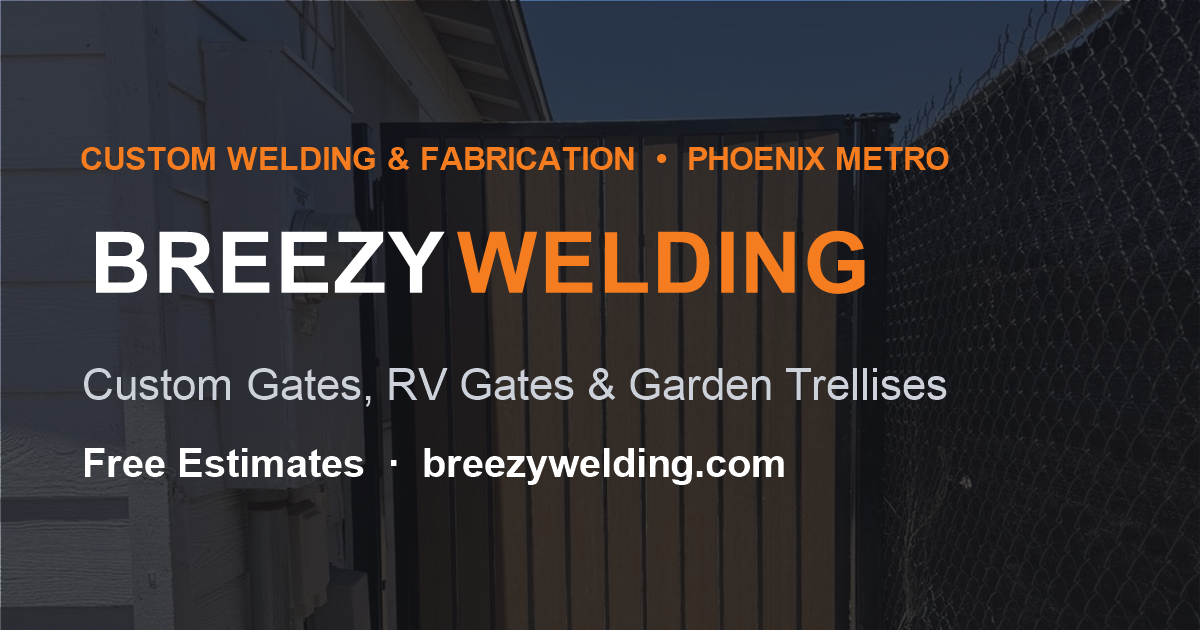
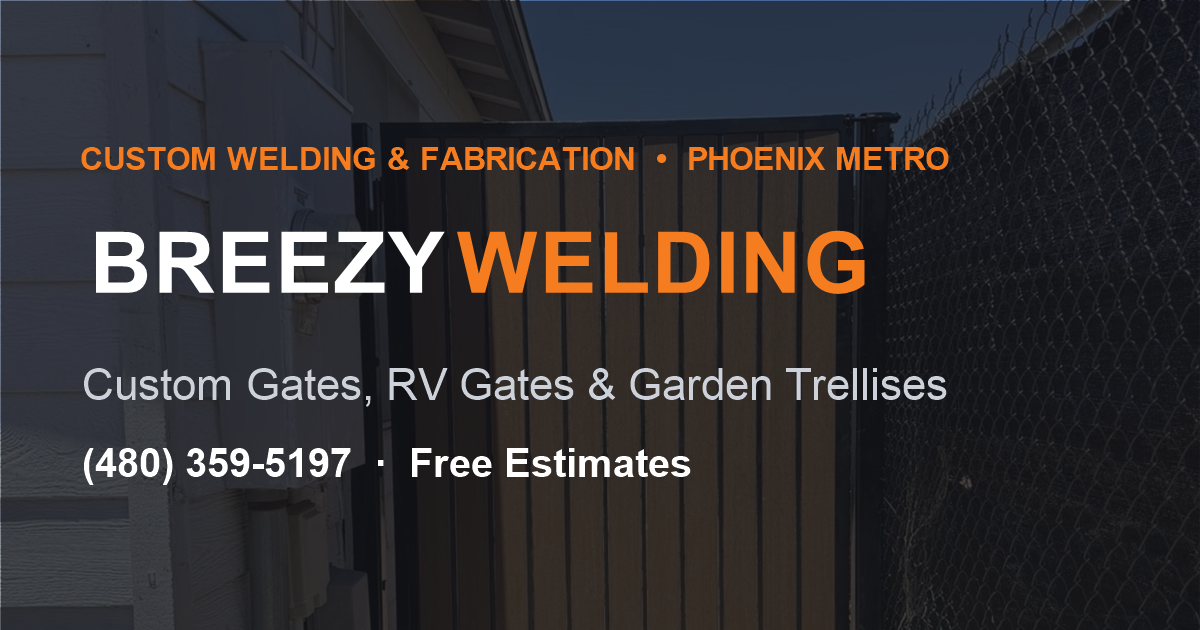
Restore call and text CTAs with new Google Voice business number
(480) 359-5197 replaces the removed personal cell across the nav, hero
CTA, quote-form fallback, footer, mobile call bar, thanks.html, JSON-LD
telephone, and the og.png share image.

Changed region(s): [[0.0617, 0.6937, 0.6783, 0.7841]]

diff --git a/index.html b/index.html
@@ -28,6 +28,7 @@
   "name": "Breezy Welding",
   "description": "Custom welding and fabrication shop building RV gates, entry and walkway gates, and garden trellises in the Phoenix metro.",
   "url": "https://www.breezywelding.com/",
+  "telephone": "+14803595197",
   "email": "breezywelding@gmail.com",
   "image": "https://www.breezywelding.com/og.png",
   "priceRange": "$350-$2400",
@@ -79,6 +80,8 @@
   .btn-lg{padding:16px 34px;font-size:1.1rem}
   .btn-ghost{background:transparent;border:2px solid rgba(255,255,255,.7)}
   .btn-ghost:hover{background:rgba(255,255,255,.12)}
+  .nav-phone{color:var(--white)!important;font-weight:700;font-size:1.05rem!important}
+  .nav-phone svg{vertical-align:-3px;margin-right:6px}
 
   /* ===== Hero ===== */
   .hero{background:
@@ -202,12 +205,13 @@
     .why-grid{grid-template-columns:repeat(2,1fr)}
     .gallery-grid{grid-template-columns:repeat(2,1fr)}
     .foot-grid{grid-template-columns:1fr}
-    .nav-links a:not(.btn){display:none}
+    .nav-links a:not(.nav-phone):not(.btn){display:none}
     .call-bar{display:flex}
     body{padding-bottom:64px}
     section{padding:56px 0}
   }
   @media(max-width:700px){
+    .nav-phone{display:none!important}
     .logo{font-size:1.2rem}
     .nav .btn{padding:11px 18px;font-size:.95rem}
   }
@@ -231,6 +235,9 @@
       <a href="#gallery">Our Work</a>
       <a href="#process">Process</a>
       <a href="#faq">FAQ</a>
+      <a href="tel:+14803595197" class="nav-phone">
+        <svg width="15" height="15" viewBox="0 0 24 24" fill="currentColor" aria-hidden="true"><path d="M6.6 10.8c1.4 2.8 3.8 5.1 6.6 6.6l2.2-2.2c.3-.3.7-.4 1-.2 1.1.4 2.3.6 3.6.6.6 0 1 .4 1 1V20c0 .6-.4 1-1 1C10.6 21 3 13.4 3 4c0-.6.4-1 1-1h3.5c.6 0 1 .4 1 1 0 1.2.2 2.4.6 3.6.1.3 0 .7-.2 1l-2.3 2.2z"/></svg>
+        (480) 359-5197</a>
       <a href="#quote" class="btn">Free Quote</a>
     </nav>
   </div>
@@ -245,7 +252,7 @@
       <p class="sub">Hand-welded RV gates, entry gates, and garden trellises, built to fit your property exactly. Installed clean and priced fair. No big-box kits, no shortcuts.</p>
       <div class="hero-ctas">
         <a href="#quote" class="btn btn-lg">Get My Free Quote</a>
-        <a href="mailto:breezywelding@gmail.com" class="btn btn-lg btn-ghost">Email Us</a>
+        <a href="tel:+14803595197" class="btn btn-lg btn-ghost">Call (480) 359-5197</a>
       </div>
       <div class="trust-row">
         <div><svg width="16" height="16" viewBox="0 0 24 24" fill="#f57c1f" aria-hidden="true"><path d="M12 2l2.9 6.3 6.9.7-5.2 4.6 1.5 6.8L12 16.9 5.9 20.4l1.5-6.8L2.2 9l6.9-.7z"/></svg> Local &amp; Family-Run</div>
@@ -280,7 +287,7 @@
         <button type="submit" class="btn">Request My Quote →</button>
       </form>
       <div class="form-fallback" id="form-fallback">
-        <p><strong>Sorry, our form is having trouble right now.</strong> Your request did not go through. Send your details by email instead and we will get right back to you:</p>
+        <p><strong>Sorry, our form is having trouble right now.</strong> Your request did not go through. Call or text us at <a href="tel:+14803595197">(480) 359-5197</a>, or send your details by email instead:</p>
         <a id="mailto-fallback" class="btn" href="mailto:breezywelding@gmail.com">Email Us Your Details</a>
       </div>
       <p class="quote-note">No spam, no pressure. Just an honest number.</p>
@@ -495,6 +502,7 @@
       </div>
       <div class="foot-links">
         <h4>Contact</h4>
+        <a href="tel:+14803595197">(480) 359-5197</a>
         <a href="mailto:breezywelding@gmail.com">breezywelding@gmail.com</a>
         <p style="margin-top:8px">Serving the Phoenix Metro<br>Mon to Sat, 7am to 6pm</p>
       </div>
@@ -505,7 +513,7 @@
 
 <!-- ===== MOBILE CALL BAR ===== -->
 <div class="call-bar">
-  <a href="mailto:breezywelding@gmail.com" class="call">✉ Email Us</a>
+  <a href="tel:+14803595197" class="call">📞 Call Now</a>
   <a href="#quote" class="quote">Free Quote</a>
 </div>
 

diff --git a/thanks.html b/thanks.html
@@ -30,7 +30,7 @@
     <h1>Request Received!</h1>
     <p>Thanks for reaching out. Your quote request is in.</p>
     <p><strong>We'll get back to you within one business day</strong> to set up your free on-site estimate.</p>
-    <p class="call">Need it sooner? Email <a href="mailto:breezywelding@gmail.com">breezywelding@gmail.com</a></p>
+    <p class="call">Need it sooner? Call or text <a href="tel:+14803595197">(480) 359-5197</a></p>
     <a class="btn" href="/">← Back to Breezy Welding</a>
   </div>
 </body>

diff --git a/CLAUDE.md b/CLAUDE.md
@@ -7,10 +7,10 @@ and `images/` holds real project photos. No build step, no dependencies, no fram
 ## Business facts (real data — do not invent or change without owner confirmation)
 
 - Owner: Bryan, welder/fabricator
-- Phone: NONE on the site. Bryan's personal cell was published at launch but removed
-  Jul 19 2026 at his request; never publish it anywhere (this repo is public, so keep the
-  digits out of these docs too). Contact is email + quote form until he sets up a business
-  number (e.g. Google Voice).
+- Phone (call/text): (480) 359-5197 — Google Voice business number (Mesa, AZ; set up
+  Jul 20 2026, restored across the site the same day). Bryan's personal cell was published
+  at launch but removed Jul 19 2026 and scrubbed from git history; never publish it
+  anywhere (this repo is public, so keep those digits out of these docs too).
 - Email: breezywelding@gmail.com
 - Service area: Phoenix metro — Mesa, Gilbert, Chandler, Tempe, Scottsdale, Queen Creek
 - Hours: Mon–Sat 7:00 AM – 6:00 PM
@@ -72,10 +72,11 @@ shop-fabrication. `trellis-row.jpg` and `trellis-vines.jpg` are in the folder bu
    listing became the site's main trust signal): if Bryan sets one up, add the rating badge,
    aggregateRating JSON-LD, and a sameAs Maps link, and swap placeholder testimonials for
    real review quotes.
-6. Business phone number: when Bryan sets one up (e.g. Google Voice, like earthlight-lash),
-   restore the call CTAs that were removed Jul 19 2026: nav phone link, hero "Call" ghost
-   button (now "Email Us"), mobile call-bar Call button (now Email Us), footer contact line,
-   form-fallback copy, thanks.html "Need it sooner?" line, and JSON-LD telephone.
+6. Facebook ads (in progress Jul 2026): Meta Ads for the Breezy Welding AZ page — plan is
+   Ads Manager Leads objective with Instant Forms, geo targeting on the service-area cities,
+   $10-20/day. Pending from Bryan: confirm Meta Business/Ads Manager access and budget.
+   Possible site work: Meta Pixel + lead event on thanks.html, ad creatives from project
+   photos.
 
 ## Done
 
